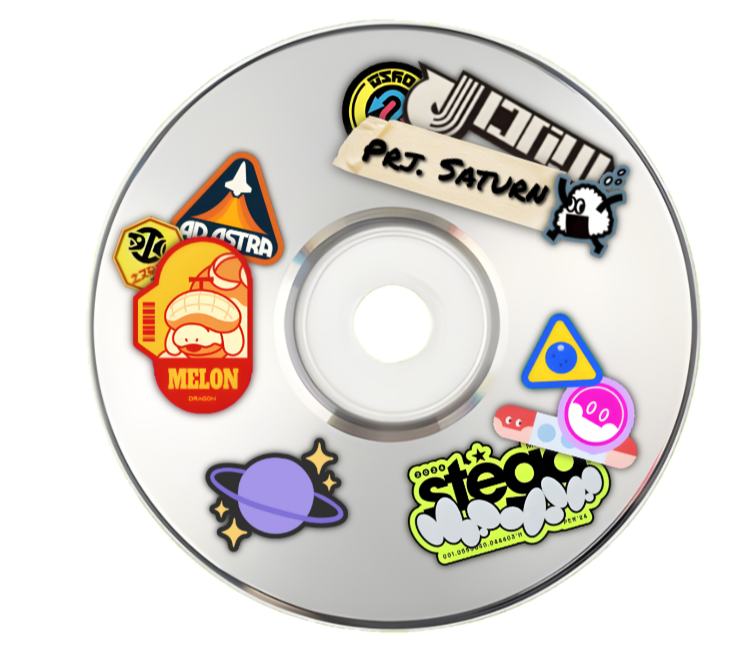
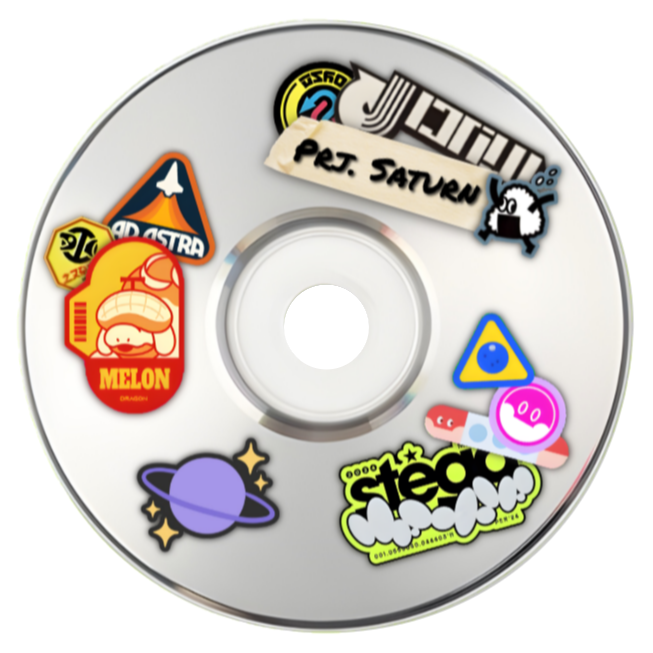
Added disc, CD pre Modular Assembly

diff --git a/Posters/CD-Saturn.html b/Posters/CD-Saturn.html
@@ -67,6 +67,7 @@
       Inside Left
     </div>
   </div>
+
   <!-- Panel 2 (Right Panel / Inside Right) -->
   <div
     class="panel panel2"
@@ -100,43 +101,48 @@
         will-change: transform;
       "
     />
-    <!-- CD Disk - Now Skinned with SaturnCDdisk.png -->
+
+    <!-- CD Disk - Skinned with SaturnCDdisk.png -->
     <div
       class="cd-disk"
       style="
         position: absolute;
-        top: 0;
-        left: 0;
+        top: 0px;
+        left: 15.45px;
         width: 100%;
         height: 100%;
-        background-color: transparent; /* Changed from yellow to transparent */
+        background-color: transparent;
         z-index: 2; /* above panel 2 content */
         pointer-events: none;
         will-change: transform;
-        overflow: hidden; /* Ensure image doesn't overflow */
+        overflow: hidden;
       "
     >
+      <!-- inside your poster .cd-disk -->
       <img
+        id="saturn-cd-disk"
         src="Assets/SaturnCDdisk.png"
         alt="Saturn CD Disk"
+        data-rotation="-45"
         style="
-          width: 100%;
-          height: 100%;
+          width: 147px;
+          height: 147px;
           object-fit: cover;
           image-rendering: -webkit-optimize-contrast;
           image-rendering: crisp-edges;
           backface-visibility: hidden;
-          transform: translateZ(0);
+          transform: rotate(-0deg);
           will-change: transform;
           position: absolute;
           top: 0;
           left: 0;
-          rotate: -45deg;
           pointer-events: auto;
+          transition: transform 0.4s ease; /* used for the initial +45° visual step */
         "
       />
     </div>
   </div>
+
   <!-- Clickable overlay for right panel -->
   <div
     class="SaturnCD-right-click"
@@ -151,13 +157,16 @@
       z-index: 3;
     "
   ></div>
+
   <style>
     /* Poster zoom and reposition when active */
     .poster-active.SaturnCD {
       transform: scale(4) !important;
       top: 40% !important;
       left: 70% !important;
-    } /* Open/close transition for Panel 1 */
+    }
+
+    /* Open/close transition for Panel 1 */
     .SaturnCD .panel1 {
       transform: rotateY(0deg);
       transform-style: preserve-3d;
@@ -166,21 +175,25 @@
     }
     .SaturnCD:not(.poster-active) .panel1 {
       transition: transform 0.4s ease 0s; /* close */
-    } /* Open state */
+    }
     .poster-active.SaturnCD .panel1 {
       transform: rotateY(-180deg);
-    } /* Enable clicking on right panel when open */
+    }
+
+    /* Enable clicking on right panel when open */
     .poster-active.SaturnCD .SaturnCD-right-click {
       pointer-events: auto;
-    } /* ---------- CD Disk sliding behavior ---------- */
+    }
+
+    /* ---------- CD Disk sliding behavior ---------- */
     .cd-disk {
       transition: transform 1s cubic-bezier(0.25, 0.8, 0.25, 1) 1s;
     }
     .poster-active.SaturnCD .panel2 .cd-disk {
-      transform: translateX(53px) rotate(45deg);
+      transform: translateX(49px) translateY(8px) rotate(45deg);
     }
     .SaturnCD:not(.poster-active) .panel2 .cd-disk {
-      transform: translateX(0) rotate(-45 deg);
+      transform: translateX(0) rotate(0deg);
       transition: transform 0.4s ease 0s;
     }
   </style>

diff --git a/js/SaturnCD.js b/js/SaturnCD.js
@@ -1,0 +1,100 @@
+// File: js/SaturnCD.js
+
+(function () {
+  // Config
+  const SPIN_MS_PER_REV = 4000; // 1 full rotation every 3s
+  const SPIN_DEG_PER_MS = 360 / SPIN_MS_PER_REV;
+
+  // State
+  let spinState = "idle"; // "idle" | "spinning"
+  let spinRaf = null;
+  let lastTimestamp = null;
+  let currentRotation = -45; // baseline rotation
+
+  function getActivePosterAndImg() {
+    const poster = document.querySelector(".poster.SaturnCD.poster-active");
+    if (!poster) return { poster: null, img: null };
+    const img = poster.querySelector("#saturn-cd-disk");
+    return { poster, img };
+  }
+
+  function spinFrame(ts, img) {
+    if (!lastTimestamp) lastTimestamp = ts;
+    const delta = ts - lastTimestamp;
+    lastTimestamp = ts;
+
+    currentRotation = (currentRotation + SPIN_DEG_PER_MS * delta) % 360;
+    img.style.transform = `rotate(${currentRotation}deg)`;
+
+    spinRaf = requestAnimationFrame((t) => spinFrame(t, img));
+  }
+
+  function startSpinning(img) {
+    if (spinState === "spinning") return;
+    spinState = "spinning";
+    img.style.transition = "none"; // ensure RAF controls it smoothly
+    lastTimestamp = performance.now();
+    spinRaf = requestAnimationFrame((t) => spinFrame(t, img));
+  }
+
+  function stopSpinning(img) {
+    if (spinRaf) cancelAnimationFrame(spinRaf);
+    spinRaf = null;
+    spinState = "idle";
+    // Keep the current rotation position - don't reset to -45
+    img.style.transition = "transform 0.4s ease";
+    // The rotation stays at whatever currentRotation was when stopped
+  }
+
+  function stopAndReset(img) {
+    if (spinRaf) cancelAnimationFrame(spinRaf);
+    spinRaf = null;
+    spinState = "idle";
+    currentRotation = -45;
+    img.style.transition = "transform 0.4s ease";
+    img.style.transform = `rotate(${currentRotation}deg)`;
+  }
+
+  // Click handler: toggle continuous spin
+  document.addEventListener("click", (e) => {
+    const { poster, img } = getActivePosterAndImg();
+    if (!poster || !img) return;
+
+    const cdContainer = poster.querySelector(".cd-disk");
+    if (!cdContainer || !cdContainer.contains(e.target)) return;
+
+    if (spinState === "idle") {
+      startSpinning(img);
+    } else {
+      stopSpinning(img); // Just stop, don't reset position
+    }
+  });
+
+  // Watch for poster closing → stop + reset
+  const mo = new MutationObserver(() => {
+    const poster = document.querySelector(".poster.SaturnCD");
+    if (!poster) return;
+    const img = poster.querySelector("#saturn-cd-disk");
+    if (!img) return;
+
+    if (!poster.classList.contains("poster-active")) {
+      stopAndReset(img); // Still reset when poster closes
+    }
+  });
+
+  mo.observe(document.body, {
+    subtree: true,
+    childList: true,
+    attributes: true,
+    attributeFilter: ["class"],
+  });
+
+  // Initialize
+  (function initIfPresent() {
+    const poster = document.querySelector(".poster.SaturnCD");
+    if (!poster) return;
+    const img = poster.querySelector("#saturn-cd-disk");
+    if (!img) return;
+    img.style.transform = `rotate(${currentRotation}deg)`;
+  })();
+})();

diff --git a/index.html b/index.html
@@ -16,5 +16,6 @@
     </div>
 
     <script src="js/main.js"></script>
+    <script src="js/SaturnCD.js"></script>
   </body>
 </html>
